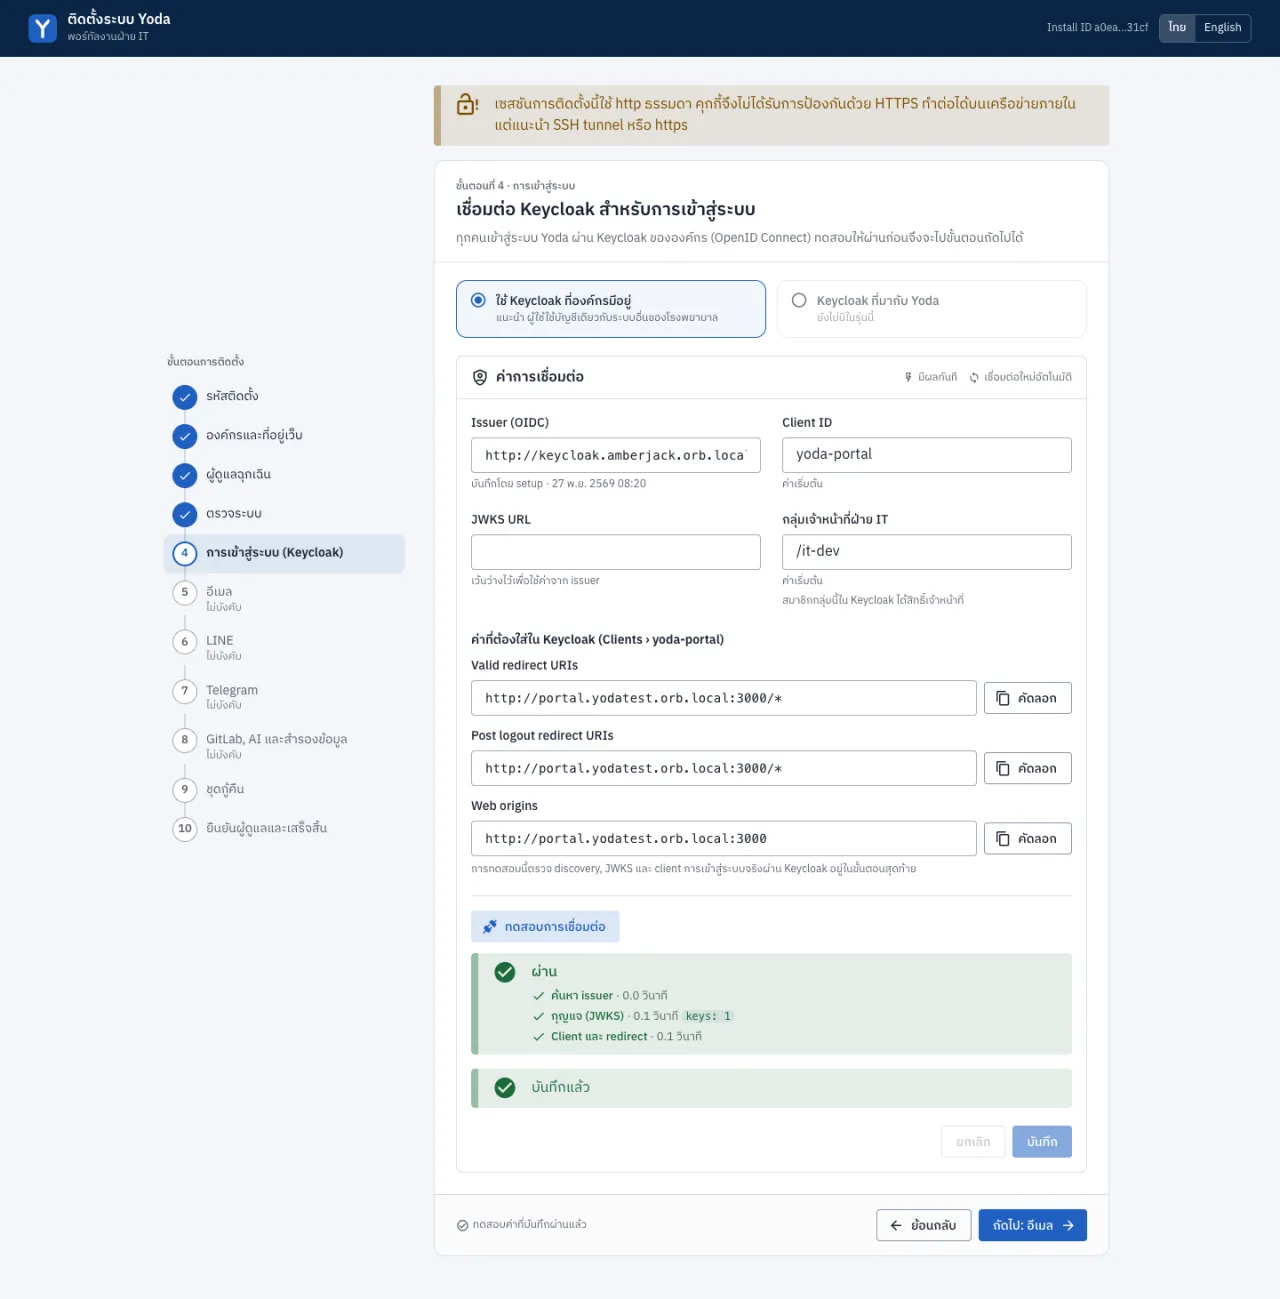
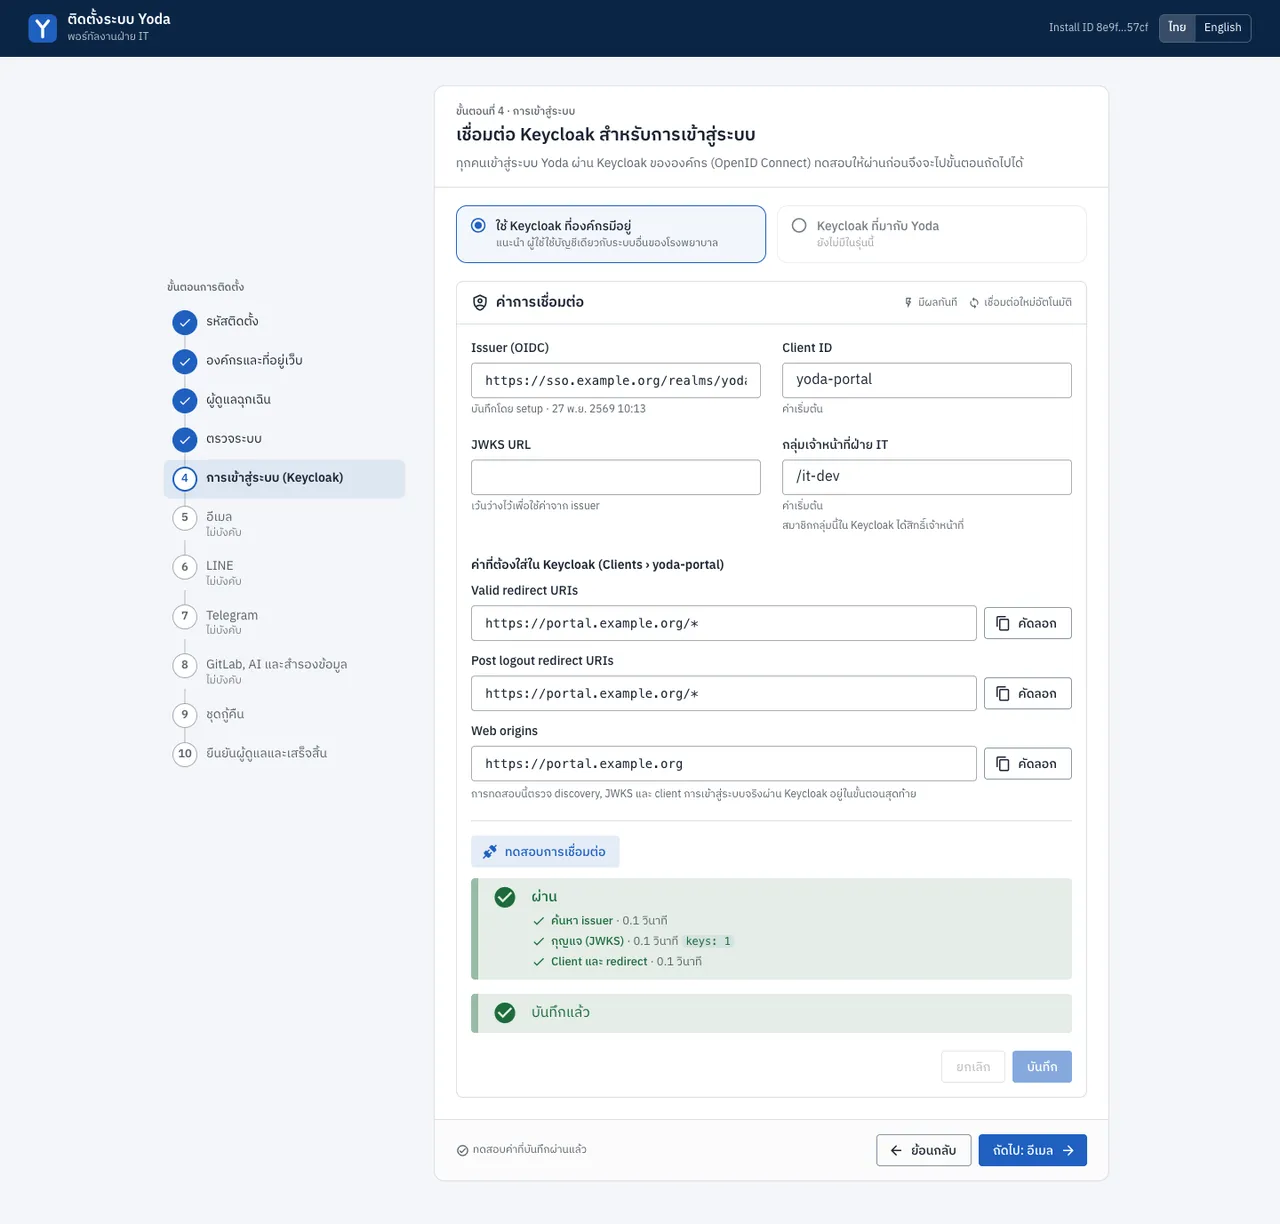
docs: refresh screenshots and fix guide details

diff --git a/docs/guides/staff.th.md b/docs/guides/staff.th.md
@@ -9,7 +9,7 @@
 - [งานที่ต้องทำ](#งานที่ต้องทำ)
 - [งานย่อย: ตรวจร่างของ AI อนุมัติ และส่งงาน](#งานย่อย-ตรวจร่างของ-ai-อนุมัติ-และส่งงาน)
 - [งานและโครงการ](#งานและโครงการ)
-- [แชทกับเลขาฯ AI](#แชทกับเลขาฯ-ai)
+- [แชทกับผู้ช่วย](#แชทกับผู้ช่วย)
 - [ประเด็นหารือและวาระการประชุม](#ประเด็นหารือและวาระการประชุม)
 - [สถานะภาพรวม](#สถานะภาพรวม)
 - [ตั้งค่าการแจ้งเตือน](#ตั้งค่าการแจ้งเตือน)
@@ -40,10 +40,10 @@
 
 ![งานที่ต้องทำ: เรื่องที่รอการตัดสินใจและงานที่รอยืนยัน](../images/staff-todo.webp)
 
-- **รอการตัดสินใจของคุณ** คือข้อเสนอจากเลขาฯ AI พร้อมเหตุผล
+- **รอการตัดสินใจของคุณ** คือข้อเสนอจากผู้ช่วย (เลขาฯ AI) พร้อมเหตุผล
   - *ไปขั้นตอนถัดไป*: งานย่อยของขั้นตอนนี้ครบแล้ว เลือก **ไปขั้นตอนถัดไป** หรือ **ยังไม่ไป**
   - *เปลี่ยนความสำคัญ*: AI เสนอให้ปรับความสำคัญ กด **ยืนยัน** หรือ **ปฏิเสธ**
-  - *คำขอใหม่จากแชท*: คำขอที่เลขาฯ รวบรวมมาจากแชท เลือกโครงการ (ถ้า AI ยังไม่ได้เลือกให้) แล้วกด
+  - *คำขอใหม่จากแชท*: คำขอที่ผู้ช่วยรวบรวมมาจากแชท เลือกโครงการ (ถ้า AI ยังไม่ได้เลือกให้) แล้วกด
     **รับเรื่อง** หรือกด **ปฏิเสธ** พร้อมระบุเหตุผล
 - **รอการยืนยันจากคุณ** คืองานย่อยที่ต้องมีคนดูแล เรียงตามความสำคัญแล้วตามเวลาที่รอ คอลัมน์ *สิ่งที่รออยู่*
   บอกสาเหตุ เช่น AI ร่างงานไม่ได้ (กด **ให้ AI ลองใหม่**) รอรันเนอร์ว่าง หรือมีผู้รับผิดชอบที่ AI เสนอไว้
@@ -62,7 +62,7 @@
   พร้อมระดับความมั่นใจ ควรตรวจประเด็นเหล่านั้นก่อนยอมรับ
 - **ผลงานของคุณ**: กด **คัดลอกไปยังผลงานของฉัน** เพื่อเริ่มจากร่างของ AI แก้ไขตามต้องการ แนบไฟล์ได้
   แล้วกด **ส่งงาน**
-- งานย่อยประเภท **อนุมัติ** และ **ตรวจ** จะแสดงผลงานของขั้นตอนก่อนหน้า กด **อนุมัติ** หรือ
+- งานย่อยประเภท **อนุมัติ** และ **ตรวจทาน** จะแสดงผลงานของขั้นตอนก่อนหน้า กด **อนุมัติ** หรือ
   **ขอให้แก้ไข…** พร้อมระบุสิ่งที่ต้องแก้ งานจะกลับไปยังผู้รับผิดชอบพร้อมความเห็นของคุณ
 
 ![งานย่อยอนุมัติแบบระบบ](../images/staff-task-approval.webp)
@@ -97,16 +97,16 @@
 - **ความรู้** เก็บข้อเท็จจริง การตัดสินใจ และเอกสารของโครงการ ใช้ร่วมกันทั้งคนและ AI
   ข้อมูลที่ AI บันทึกจากแชทจะเป็นฉบับร่างจนกว่าจะมีคนยืนยัน
 
-## แชทกับเลขาฯ AI
+## แชทกับผู้ช่วย
 
-หน้า **แชท** ใช้คุยกับเลขาฯ AI ห้อง **ผู้ช่วยของฉัน** เป็นห้องส่วนตัวของคุณ นอกจากนี้โครงการและงานแต่ละเรื่อง
+หน้า **แชท** ใช้คุยกับผู้ช่วย ห้อง **ผู้ช่วยของฉัน** เป็นห้องส่วนตัวของคุณ นอกจากนี้โครงการและงานแต่ละเรื่อง
 ก็มีห้องแชทของตัวเอง
 
-![แชทกับเลขาฯ AI พร้อมการ์ดคำขอและความรู้](../images/staff-chat.webp)
+![แชทกับผู้ช่วยพร้อมการ์ดคำขอและความรู้](../images/staff-chat.webp)
 
 - พิมพ์ด้วยภาษาปกติได้เลย เช่น "เปิดงานแจ้งเตือน SMS ให้หน่อย" "งาน lab interface ถึงไหนแล้ว"
   "จดไว้ด้วยว่า OPD มีนัดเฉลี่ยวันละ 1,200 ราย"
-- เลขาฯ จะตอบพร้อมการ์ด เช่น คำขอใหม่ที่รอรับเรื่อง ความรู้ที่บันทึกไว้ (เป็นฉบับร่าง)
+- ผู้ช่วยจะตอบพร้อมการ์ด เช่น คำขอใหม่ที่รอรับเรื่อง ความรู้ที่บันทึกไว้ (เป็นฉบับร่าง)
   หรืองานที่สร้างแล้วพร้อมปุ่ม **เปิดงาน**
 - แนบไฟล์และรูปภาพได้ด้วยปุ่มคลิปหนีบกระดาษ กด <kbd>Enter</kbd> เพื่อส่ง และ
   <kbd>Shift</kbd>+<kbd>Enter</kbd> เพื่อขึ้นบรรทัดใหม่
@@ -157,14 +157,14 @@
   แล้วทำตามขั้นตอน (เพิ่ม LINE Official Account ของ Yoda เป็นเพื่อนแล้วส่งรหัสให้ หรือเปิดบอท Telegram
   แล้วกด Start) กด **ยกเลิกการเชื่อม** เมื่อไม่ต้องการรับทางช่องทางนั้นแล้ว
 - **รับการแจ้งเตือนแต่ละประเภททางไหน**: เลือกช่องทางให้แต่ละประเภท เช่น ได้รับมอบหมายงาน
-  ข้อเสนอรอการยืนยัน ความคืบหน้าคำขอ งานติดขัด ข้อความจากเลขาฯ AI แจ้งเตือนงบประมาณ AI และประเด็นหารือ
+  ข้อเสนอรอการยืนยัน ความคืบหน้าคำขอ งานติดขัด ข้อความจากผู้ช่วย แจ้งเตือนงบประมาณ AI และประเด็นหารือ
 - ช่องทางจะแสดงเมื่อผู้ดูแลระบบเปิดใช้งานแล้วเท่านั้น
 
 ## รันเนอร์
 
 **รันเนอร์** ทำงาน AI ที่ต้องใช้ repository (แก้โค้ด วิเคราะห์ repo รันเทสต์) ด้วย coding agent เช่น
 Claude Code บนเครื่องของคุณหรือบนเซิร์ฟเวอร์ รันเนอร์ทำงานในนามของเจ้าของ ผลงานจะแสดงว่าเป็น
-"AI ในนามของ" คุณ และการแก้โค้ดทุกครั้งจะมาเป็น merge request ใน GitLab ให้คนตรวจก่อนเสมอ
+งานที่ AI ทำแทนคุณ และการแก้โค้ดทุกครั้งจะมาเป็น merge request ใน GitLab ให้คนตรวจก่อนเสมอ
 
 ![หน้ารันเนอร์](../images/staff-runners.webp)
 

diff --git a/docs/guides/install.md b/docs/guides/install.md
@@ -4,7 +4,8 @@
 
 How to install Yoda on a server, finish the setup wizard, keep a way back in, and upgrade. This guide walks the
 common path; every detail and edge case is in the [operations runbook](../operations.md). Hostnames here are
-placeholders (`portal.example.org`, `sso.example.org`, `files.example.org`); use your own.
+placeholders (`portal.example.org`, `sso.example.org`, `files.example.org`); use your own. `files.example.org`
+stands for your organisation's own internal release server, where the signed release files are published.
 
 - [Before you start](#before-you-start)
 - [1. Install the release](#1-install-the-release)
@@ -18,12 +19,17 @@ placeholders (`portal.example.org`, `sso.example.org`, `files.example.org`); use
 
 - A Linux host with Docker Engine 24+, Docker Compose v2.24+ and about 10 GB free, and a deploy user who may run
   `docker` and owns the install directory (for example `/srv/yoda`).
+- On that host: `minisign` (to check the release signature), `tar`, and `curl` or `wget`. `install.sh` stops and
+  names any that are missing.
 - A Keycloak realm with a client for the portal and a staff group
   ([runbook, section 2](../operations.md#2-keycloak)).
 - HTTPS in front of the portal: a reverse proxy with a certificate (set `YODA_TRUSTED_PROXY_HOPS=2` in `.env`).
-  The setup wizard refuses a plain-HTTP public URL unless it is `localhost`, `127.0.0.1` or `::1`, because browsers
-  block Keycloak sign-in on plain HTTP. Until HTTPS is ready, run the wizard through an SSH tunnel
-  (`ssh -L 3000:127.0.0.1:3000 <host>`, then open `http://127.0.0.1:3000/setup`).
+  The public URL must use `https://`. Plain `http://` is accepted only when the host is this machine: `localhost`
+  or a `*.localhost` name, an address in `127.0.0.0/8`, or `::1`. Any other `http://` address (a LAN address or
+  host name) is refused, because browsers allow the portal's Keycloak sign-in only over HTTPS or on localhost.
+  When it refuses, the organisation step shows both ways forward: the SSH-tunnel command and how to put HTTPS in
+  front. Until HTTPS is ready, run the wizard through an SSH tunnel (`ssh -L 3000:127.0.0.1:3000 <host>`, then open
+  `http://127.0.0.1:3000/setup`).
 - Optional: SMTP, a LINE Official Account, a Telegram bot, a GitLab bot account, AI provider keys. Each can be
   added later in System settings.
 
@@ -36,7 +42,8 @@ alias dc='docker compose --env-file .env --env-file release.env -f docker-compos
 
 ## 1. Install the release
 
-Download `install.sh` and the checksums for a pinned release from your release file server, check the signature,
+Download `install.sh` and the checksums for a pinned release from your organisation's internal release server
+(`files.example.org` below), check the signature,
 then run it. Never pipe a download into `sh`.
 
 ```bash
@@ -81,7 +88,7 @@ redirect.
 
 **Step 2 · Break-glass admin.** A local account for `/recovery`, used only when Keycloak sign-in fails. Choose a
 username and a strong password (14+ characters), scan the QR code with an authenticator app and enter its code
-(TOTP is skipped only for a `localhost` URL).
+(the authenticator is optional only when both the public URL and the address in your browser are `localhost`).
 
 ![Create the break-glass admin (QR code and key hidden in this screenshot)](../images/setup-admin.webp)
 

diff --git a/docs/guides/admin.md b/docs/guides/admin.md
@@ -90,9 +90,9 @@ setting.
 
 - **Anthropic API key** and/or an **OpenAI-compatible API key** with its **base URL** (for example an internal
   gateway). Jobs whose provider has no key are unavailable; the portal says "AI is not configured" on such tasks.
-- **Model for drafts** and **model for quick jobs**, as `provider:model` (defaults `anthropic:claude-opus-5-5`
+- **Drafting model** and **Fast model**, as `provider:model` (defaults `anthropic:claude-opus-5-5`
   and `anthropic:claude-haiku-5-5`), the optional **embedding model** (empty: keyword search only) and the number
-  of **concurrent AI jobs** (needs a restart).
+  of **AI workers**, the AI jobs run at once (needs a restart).
 - **Monthly budget (USD)** for the whole department; empty means no limit.
 
 ![AI providers, models, the monthly budget and the fun switch](../images/admin-settings-ai.webp)
@@ -114,11 +114,11 @@ test passes; people then link their own accounts in their notification settings.
 ![Email, LINE and Telegram settings](../images/admin-settings-channels.webp)
 
 - **Email (SMTP)**: server, port, TLS, user, password and sender. **Test connection**, then **Send a test email to
-  myself**.
+  me**.
 - **LINE Official Account**: the channel access token and channel secret from LINE Developers, and the add-friend
   link shown to people when they link. Copy the **Webhook URL** into LINE Developers.
 - **Telegram**: the bot token from BotFather (the bot's name fills in by itself) and a webhook secret
-  (**Generate**). **Register webhook** points Telegram at Yoda; tick *Drop pending messages* to discard what
+  (**Generate**). **Register webhook** points Telegram at Yoda; tick **Drop pending updates** to discard what
   queued while it was off.
 
 Step-by-step provider setup is in the [runbook, section 9](../operations.md#9-email-line-and-telegram).
@@ -131,8 +131,8 @@ Step-by-step provider setup is in the [runbook, section 9](../operations.md#9-em
 ![GitLab connection, token, webhook secret and webhook URL](../images/admin-settings-gitlab.webp)
 
 The **Connection** card shows whether GitLab is configured and reachable, the bot user and the last webhook
-received. In GitLab, add a webhook on each linked project (or once on the group) with the **URL for the GitLab
-webhook** shown here, the webhook secret as *Secret token*, and the **Merge request**, **Pipeline** and
+received. In GitLab, add a webhook on each linked project (or once on the group) with the **Webhook URL to configure in
+GitLab** shown here, the webhook secret as *Secret token*, and the **Merge request**, **Pipeline** and
 **Comments** events. Projects link their repositories on their **Repository** tab. Details:
 [runbook, section 7](../operations.md#7-gitlab-integration).
 

diff --git a/docs/development.md b/docs/development.md
@@ -15,7 +15,7 @@ pnpm monorepo: `apps/core` (Fastify + Drizzle), `apps/portal` (Nuxt 4 SPA), `app
 ```bash
 pnpm install            # also installs the lefthook git hooks (gitleaks pre-commit)
 cp .env.example .env    # adjust ports if needed
-docker compose up -d    # postgres, rustfs (S3), keycloak (bound to 127.0.0.1)
+docker compose up -d    # postgres, rustfs (S3), keycloak, mailpit (bound to 127.0.0.1)
 pnpm --filter @yoda/core db:migrate
 pnpm dev                # core on PORT, portal on PORTAL_PORT
 ```
@@ -23,7 +23,7 @@ pnpm dev                # core on PORT, portal on PORTAL_PORT
 The root `.env` is loaded automatically by `pnpm --filter @yoda/core dev`, `db:migrate` and
 `pnpm --filter @yoda/portal dev` (so `PORTAL_PORT` and `NUXT_PUBLIC_*` apply). For local dev set
 `BOOTSTRAP_ADMINS=somchai` in your `.env` to get an admin on first login. Never set a common real
-username against the hospital Keycloak.
+username against the organisation's Keycloak.
 
 ### Object storage (RustFS)
 

diff --git a/docs/guides/staff.md b/docs/guides/staff.md
@@ -163,8 +163,8 @@ menu → **Notification settings**.
 ## Runners
 
 A **runner** works AI tasks that need a repository (code changes, repository analysis, running tests) with a
-coding agent such as Claude Code, on your machine or on a server. It acts on your behalf: its results show as
-"AI on behalf of" you, and every code change arrives as a GitLab merge request for a person to review.
+coding agent such as Claude Code, on your machine or on a server. It acts on your behalf: its results are
+marked as AI work done for you, and every code change arrives as a GitLab merge request for a person to review.
 
 ![The Runners page](../images/staff-runners.webp)
 

diff --git a/README.md b/README.md
@@ -32,7 +32,7 @@ Requesters outside IT get a simpler portal: their own requests, questions to ans
 ## Quick start
 
 **Production** (Docker Engine 24+ and Compose v2.24+). Download a pinned release, check its signature, then run it
-(never pipe a download into `sh`):
+(never pipe a download into `sh`). `files.example.org` stands for your organisation's own internal release server:
 
 ```bash
 curl -fsSLO https://files.example.org/yoda/releases/1.0.0/install.sh
